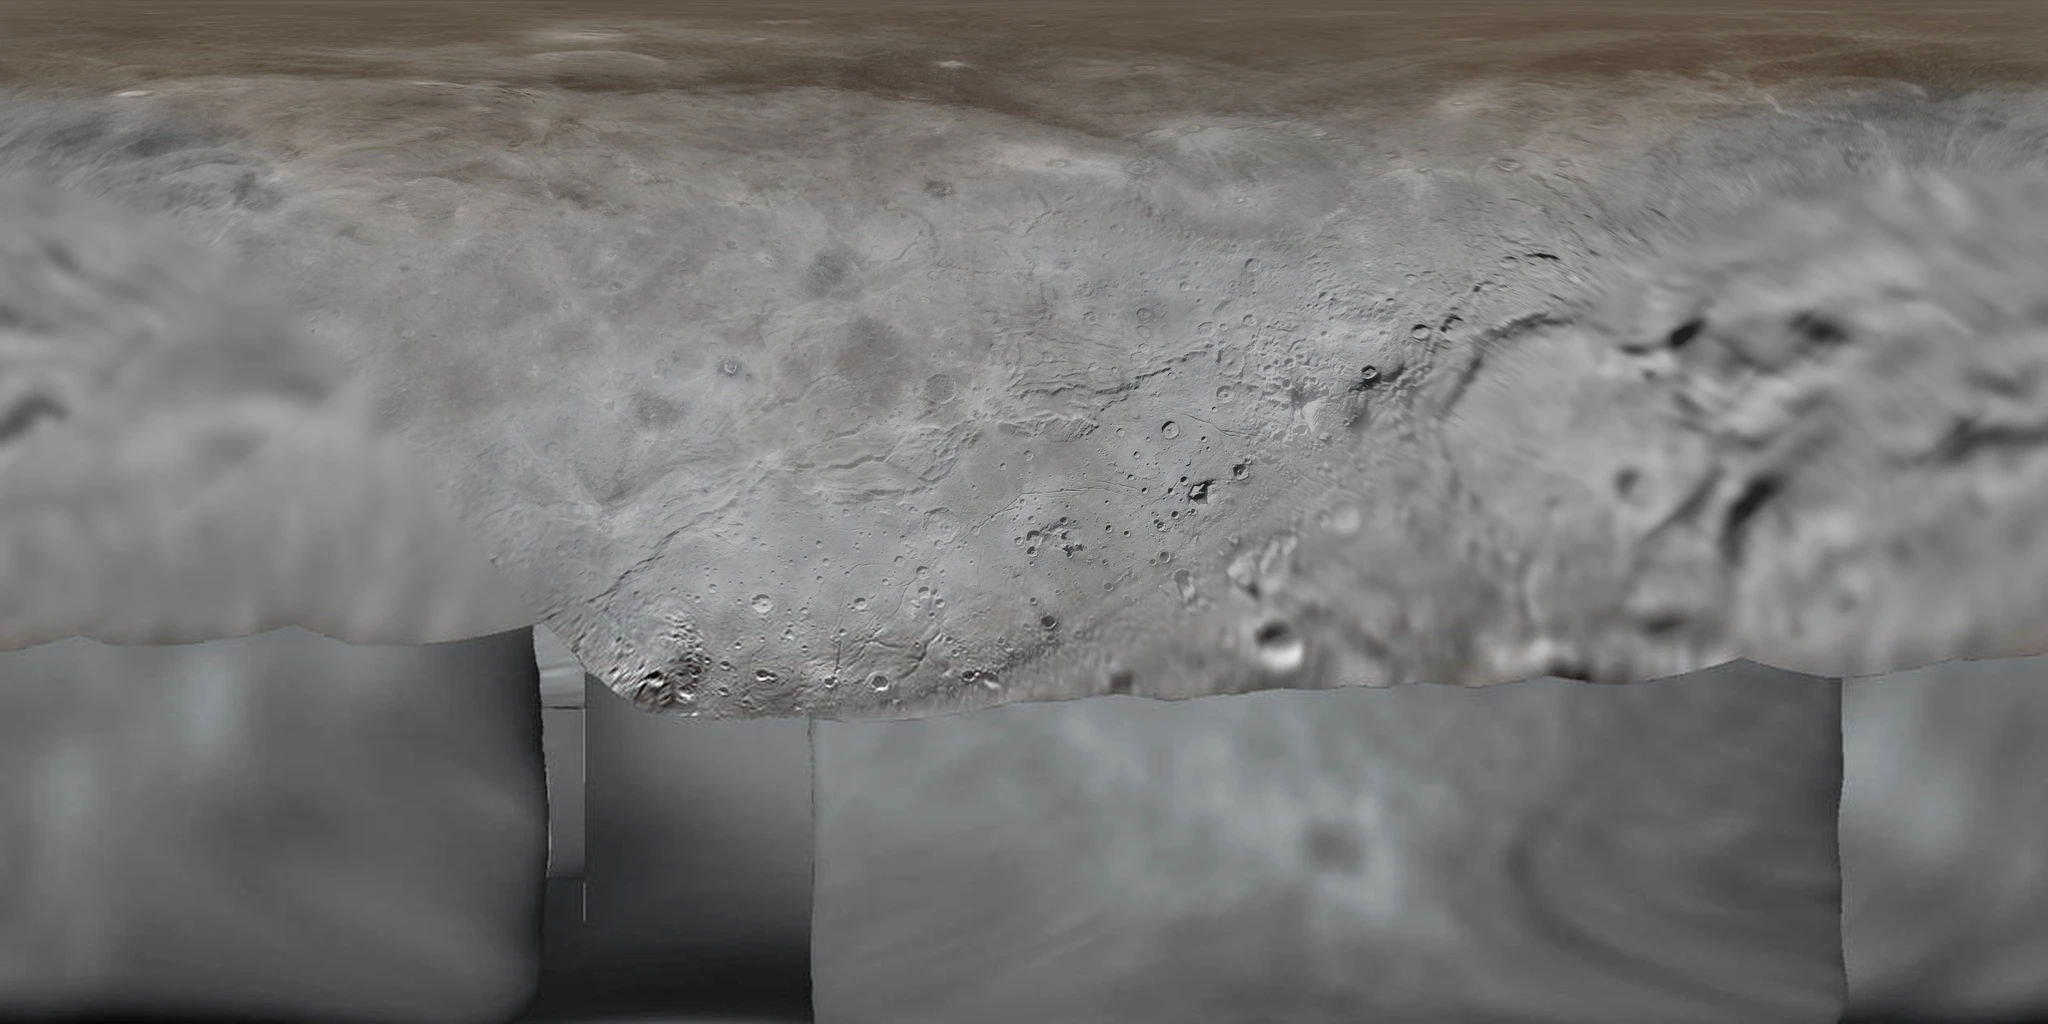
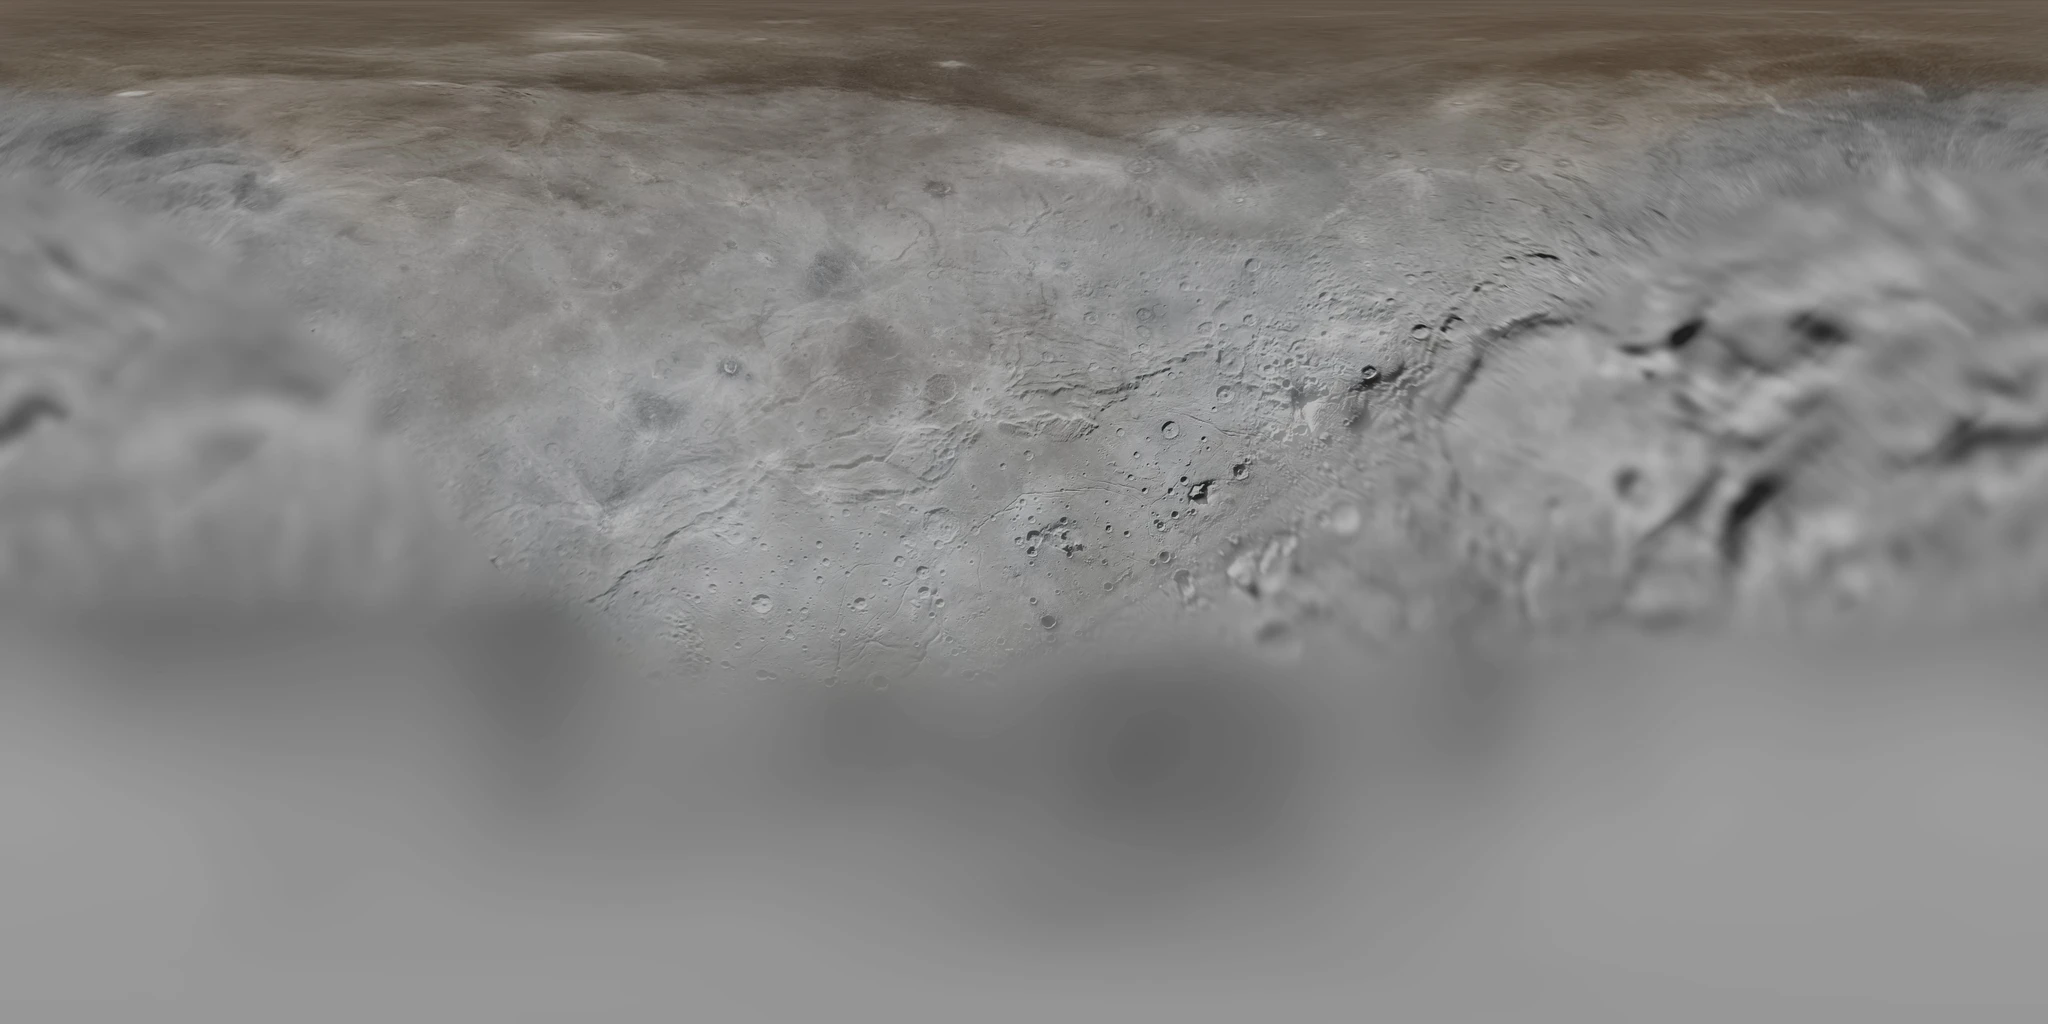
feat(planetarium): promote Charon to binary dwarf planet and make visible with Pluto at all times

Changed region(s): [[0.0, 0.5938, 1.0, 1.0]]

diff --git a/src/planetarium/ui/PlanetInfoPanel.tsx b/src/planetarium/ui/PlanetInfoPanel.tsx
@@ -195,7 +195,7 @@ export default function PlanetInfoPanel() {
                       {planet.name}
                     </span>
                     <span className="rounded-full bg-primary-accent/20 border border-primary-accent/30 px-2 py-0.5 text-[9px] font-semibold uppercase tracking-wider text-primary-accent">
-                      {isMoon ? "Moon" : "Planet"}
+                      {planet.kind === "dwarf" ? "Dwarf Planet" : isMoon ? "Moon" : "Planet"}
                     </span>
                   </div>
                 </div>
@@ -234,6 +234,22 @@ export default function PlanetInfoPanel() {
                   </button>
                 </div>
               </div>
+
+              {/* Binary Dwarf Companion Link Pill (Pluto <-> Charon) */}
+              {(planet.id === "pluto" || planet.id === "charon") && (
+                <div className="mt-1 flex items-center">
+                  <button
+                    type="button"
+                    onClick={() => selectPlanet(planet.id === "pluto" ? "charon" : "pluto")}
+                    className="inline-flex items-center gap-1.5 rounded-full border border-purple-500/30 bg-purple-500/10 px-2 py-0.5 text-[10px] font-medium text-purple-200 transition-colors hover:border-purple-400 hover:bg-purple-500/20 hover:text-white active:scale-95 cursor-pointer"
+                    title={`Focus binary companion ${planet.id === "pluto" ? "Charon" : "Pluto"}`}
+                  >
+                    <Globe className="h-3 w-3 text-purple-400" />
+                    <span>Binary Companion: {planet.id === "pluto" ? "Charon" : "Pluto"}</span>
+                    <ArrowRight className="h-3 w-3 text-purple-400" />
+                  </button>
+                </div>
+              )}
 
               {/* Moon Parent Link Pill */}
               {isMoon && parentPlanet && (
@@ -371,8 +387,20 @@ export default function PlanetInfoPanel() {
             <div>
               <div className="flex items-center gap-2">
                 <span className="text-[10px] font-bold uppercase tracking-[0.25em] text-primary-accent">
-                  {isMoon ? "Moon details" : "Planet details"}
+                  {planet.kind === "dwarf" ? "Dwarf planet details" : isMoon ? "Moon details" : "Planet details"}
                 </span>
+                {(planet.id === "pluto" || planet.id === "charon") && (
+                  <button
+                    type="button"
+                    onClick={() => selectPlanet(planet.id === "pluto" ? "charon" : "pluto")}
+                    className="inline-flex items-center gap-1.5 rounded-full border border-purple-500/30 bg-purple-500/10 px-2.5 py-0.5 text-[9px] font-medium text-purple-200 transition-colors hover:border-purple-400 hover:bg-purple-500/20 hover:text-white active:scale-95 cursor-pointer"
+                    title={`Focus binary companion ${planet.id === "pluto" ? "Charon" : "Pluto"}`}
+                  >
+                    <Globe className="h-2.5 w-2.5 text-purple-400" />
+                    <span>Binary Companion: {planet.id === "pluto" ? "Charon" : "Pluto"}</span>
+                    <ArrowRight className="h-2.5 w-2.5 text-purple-400" />
+                  </button>
+                )}
                 {isMoon && parentPlanet && (
                   <button
                     type="button"

diff --git a/src/planetarium/orbits/OrbitingPlanet.tsx b/src/planetarium/orbits/OrbitingPlanet.tsx
@@ -48,10 +48,10 @@ export default function OrbitingPlanet({
 
   const initialPosition = useMemo(() => {
     if (data.id === "pluto") {
-      return getPlutoCharonBinaryState(timeRef.current, scaleMode, scaleParams, 0).plutoPos;
+      return getPlutoCharonBinaryState(timeRef.current, scaleMode, scaleParams, 1.0).plutoPos;
     }
     if (data.id === "charon") {
-      return getPlutoCharonBinaryState(timeRef.current, scaleMode, scaleParams, 1).charonPos;
+      return getPlutoCharonBinaryState(timeRef.current, scaleMode, scaleParams, 1.0).charonPos;
     }
     return data.orbit
       ? getOrbitPosition(
@@ -70,12 +70,11 @@ export default function OrbitingPlanet({
     if (!groupRef.current || !data.orbit) return;
 
     if (data.id === "pluto") {
-      const vis = moonSystemVisRef?.current?.pluto ?? 0;
       const state = getPlutoCharonBinaryState(
         timeRef.current,
         scaleMode,
         scaleParams,
-        vis
+        1.0
       );
       groupRef.current.position.copy(state.plutoPos);
       groupRef.current.visible = true;
@@ -84,7 +83,6 @@ export default function OrbitingPlanet({
     }
 
     if (data.id === "charon") {
-      const vis = moonSystemVisRef?.current?.pluto ?? 0;
       const state = getPlutoCharonBinaryState(
         timeRef.current,
         scaleMode,
@@ -92,12 +90,8 @@ export default function OrbitingPlanet({
         1.0
       );
       groupRef.current.position.copy(state.charonPos);
-      if (vis < 0.01) {
-        groupRef.current.visible = false;
-      } else {
-        groupRef.current.visible = true;
-        groupRef.current.scale.setScalar(vis);
-      }
+      groupRef.current.visible = true;
+      groupRef.current.scale.setScalar(1);
       return;
     }
 

diff --git a/src/planetarium/data/planets.ts b/src/planetarium/data/planets.ts
@@ -441,6 +441,40 @@ export const PLANETS: BodyData[] = [
     }
   },
   {
+    id: "charon",
+    name: "Charon",
+    kind: "dwarf",
+    parentId: "sun",
+    massKg: 1.586e21,
+    mu: toMu(1.586e21),
+    rotation: {
+      axialTiltDeg: 119.6,
+      rotationPeriodHours: 153.29,
+      tidallyLocked: true
+    },
+    render: {
+      radiusKm: 606.0,
+      colorFallback: "#a3a3a3",
+      textureUrl: PLANET_TEXTURES.charon,
+      materialPreset: { roughness: 0.85, metalness: 0, illuminationBoost: 0.22 },
+      glowPreset: DWARF_GLOW,
+      bendingDimensions: {
+        topHeight: 0.15,
+        bottomDepth: 0.45,
+        contactRadius: 0.15,
+        funnelReach: 1.0
+      }
+    },
+    orbit: {
+      semiMajorAxisKm: auToKm(39.482),
+      eccentricity: 0.2488,
+      inclinationDeg: 17.16,
+      orbitalPeriodDays: 90560,
+      meanLongitudeAtEpochDeg: 238.92903833,
+      longitudeOfPerihelionDeg: 224.06891629
+    }
+  },
+  {
     id: "voyager1",
     name: "Voyager 1",
     kind: "probe",

diff --git a/src/planetarium/data/moons.ts b/src/planetarium/data/moons.ts
@@ -320,35 +320,5 @@ export const MOONS: BodyData[] = [
       meanLongitudeAtEpochDeg: 253.0,
       longitudeOfPerihelionDeg: 160.0
     }
-  },
-  {
-    id: "charon",
-    name: "Charon",
-    kind: "moon",
-    parentId: "pluto",
-    moonIndex: 0,
-    totalSiblingMoons: 1,
-    massKg: 1.586e21,
-    mu: toMu(1.586e21),
-    rotation: {
-      axialTiltDeg: 119.6,
-      rotationPeriodHours: 153.29,
-      tidallyLocked: true
-    },
-    render: {
-      radiusKm: 606.0,
-      colorFallback: "#a3a3a3",
-      textureUrl: PLANET_TEXTURES.charon,
-      materialPreset: { roughness: 0.85, metalness: 0, illuminationBoost: 0.22 },
-      glowPreset: { color: "#cbd5e1", intensity: 0.08 }
-    },
-    orbit: {
-      semiMajorAxisKm: 19591,
-      eccentricity: 0.0002,
-      inclinationDeg: 0.08,
-      orbitalPeriodDays: 6.387,
-      meanLongitudeAtEpochDeg: 135.0,
-      longitudeOfPerihelionDeg: 220.0
-    }
   }
 ];

diff --git a/src/planetarium/context/SelectionContext.tsx b/src/planetarium/context/SelectionContext.tsx
@@ -54,6 +54,9 @@ export function SelectionProvider({ children }: { children: ReactNode }) {
 
   const activeSystemId = useMemo<BodyId | null>(() => {
     if (!selectedPlanet) return null;
+    if (selectedPlanet.id === "charon" || selectedPlanet.id === "pluto") {
+      return "pluto";
+    }
     if (selectedPlanet.parentId && selectedPlanet.parentId !== "sun") {
       return selectedPlanet.parentId;
     }
